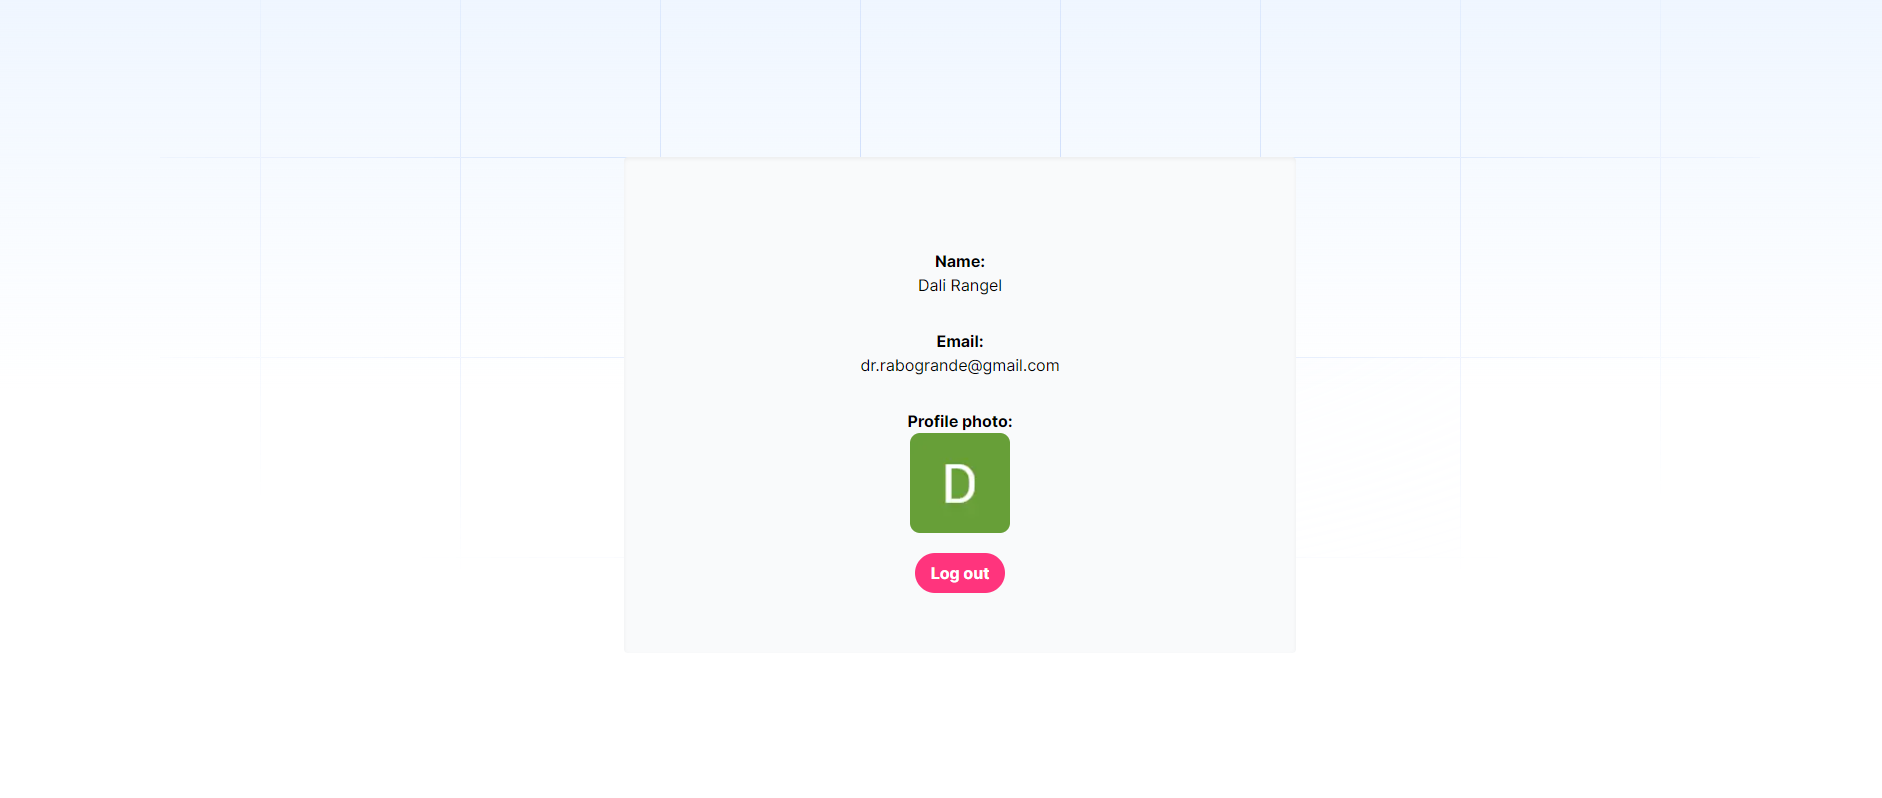
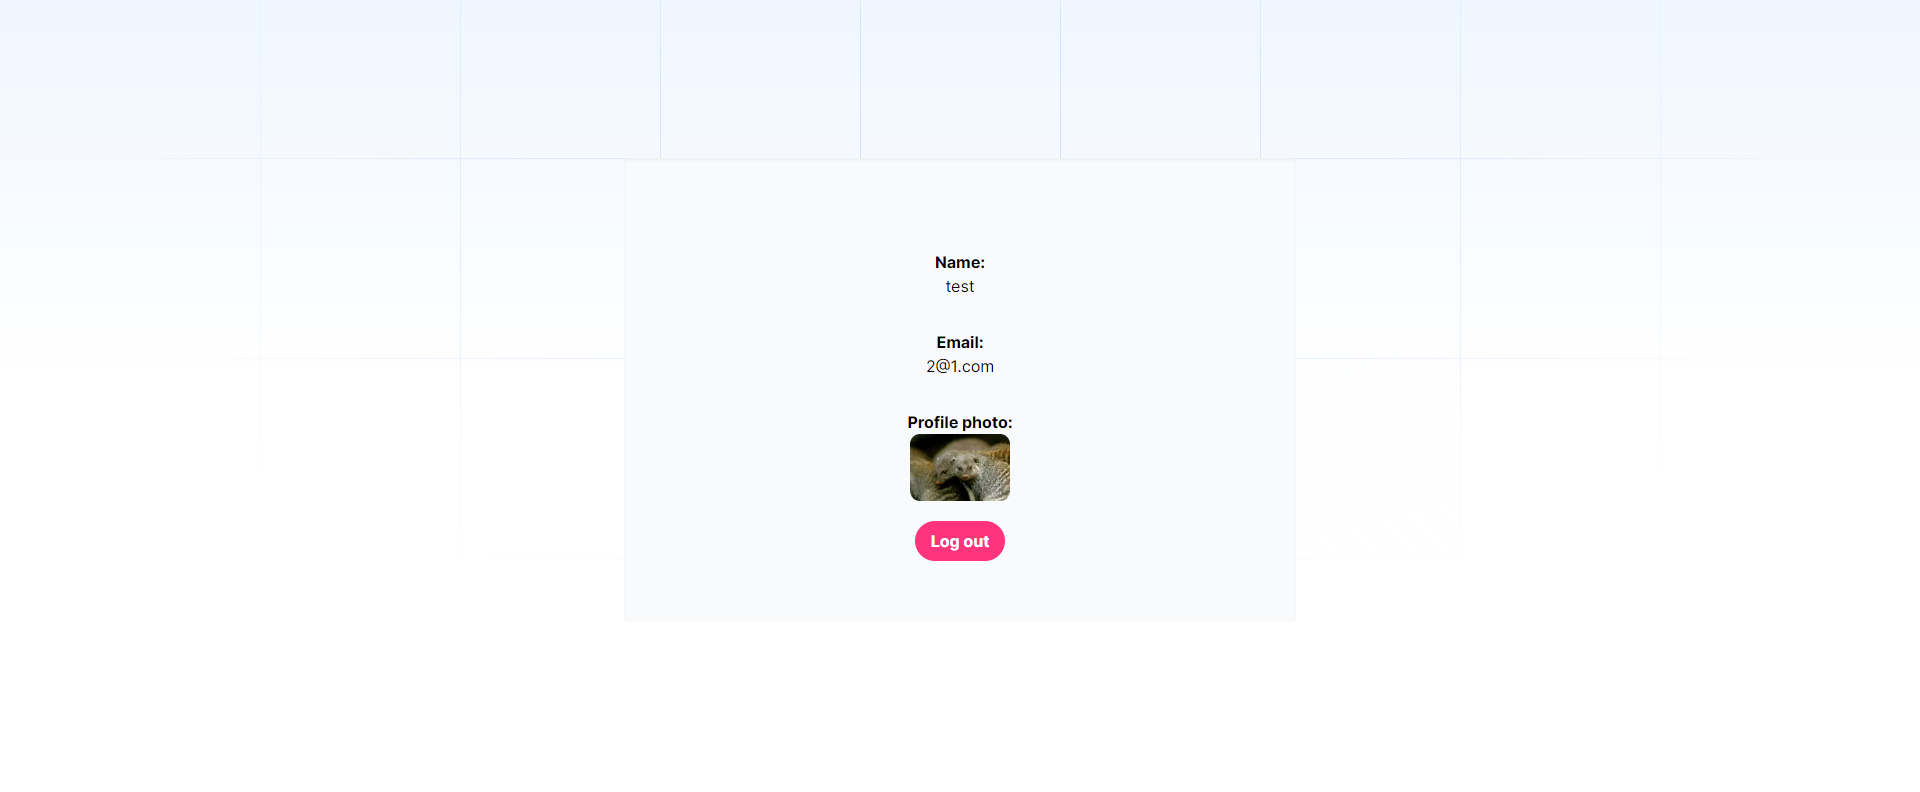
Images

Changed region(s): [[0.4623, 0.5152, 0.5547, 0.7576], [0.4623, 0.4242, 0.5547, 0.4848], [0.4931, 0.303, 0.5239, 0.3636]]

diff --git a/src/app/dashboard/profile/page.tsx b/src/app/dashboard/profile/page.tsx
@@ -1,0 +1,36 @@
+"use client";
+
+import { useSession } from "next-auth/react";
+import { signOut } from "next-auth/react";
+import Image from "next/image";
+
+function ProfilePage() {
+  const { data: session, status, update } = useSession();
+
+  if (status === "loading") return <div>Loading...</div>;
+
+  return (
+    <div>
+      <div className="bg-slate-300 p-10 text-center">
+        <h1>Bievenido {session?.user?.name}</h1>
+        <p>{session?.user?.email}</p>
+        <Image
+          src={session?.user?.image || ""}
+          alt="Image profile"
+          width={200}
+          height={200}
+        />
+        <button
+          className="bg-red-500 hover:bg-red-700 text-white font-bold py-2 px-4 rounded-full"
+          onClick={() => {
+            signOut();
+          }}
+        >
+          Cerrar sesion
+        </button>
+      </div>
+    </div>
+  );
+}
+
+export default ProfilePage;
